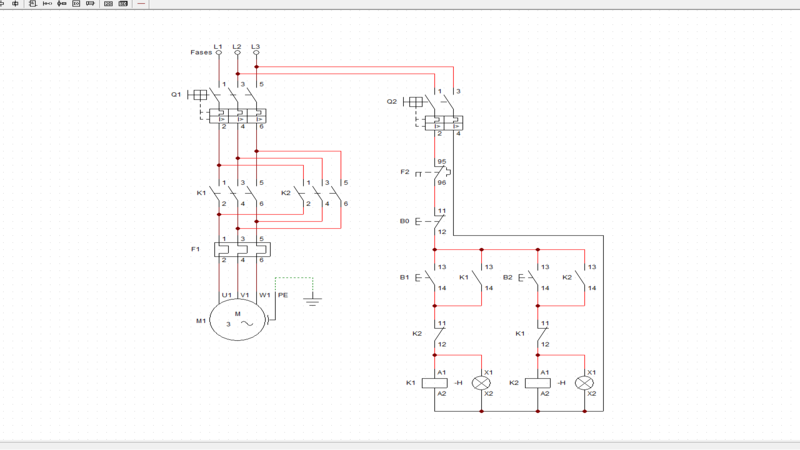
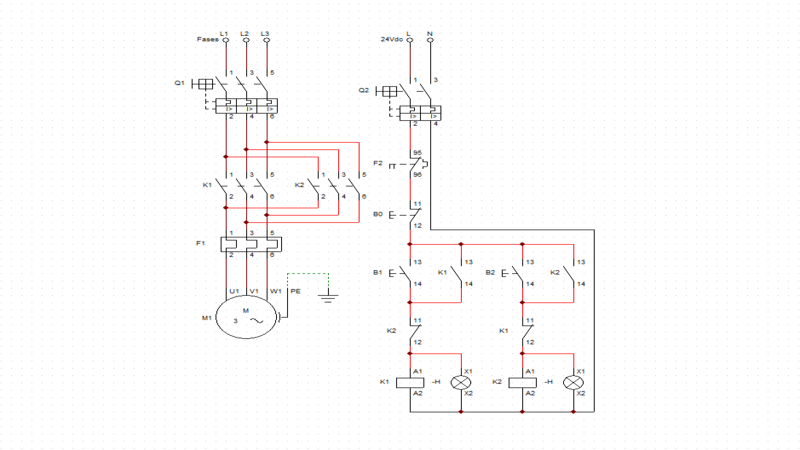
video_cards

Changed region(s): [[0.2188, 0.0622, 0.75, 0.9333], [0.0, 0.0, 1.0, 0.0311], [0.4688, 0.0622, 0.5625, 0.0933]]

diff --git a/pages/profi/profissao.html b/pages/profi/profissao.html
@@ -357,7 +357,7 @@
             <div class="card h-100">
 
                 <div class="ratio ratio-16x9">
-                    <iframe width="560" height="315" src="https://www.youtube.com/embed/jfmRg37S_7M?si=_JfAQyy225z4GdLI" title="YouTube video player" frameborder="0" allow="accelerometer; autoplay; clipboard-write; encrypted-media; gyroscope; picture-in-picture; web-share" referrerpolicy="strict-origin-when-cross-origin" allowfullscreen></iframe>
+                    <iframe width="560" height="315" src="https://www.youtube.com/embed/fsJbzJC9tUg?si=CEM_NbWPRETH-YSg" title="YouTube video player" frameborder="0" allow="accelerometer; autoplay; clipboard-write; encrypted-media; gyroscope; picture-in-picture; web-share" referrerpolicy="strict-origin-when-cross-origin" allowfullscreen></iframe>
                 </div>
 
 